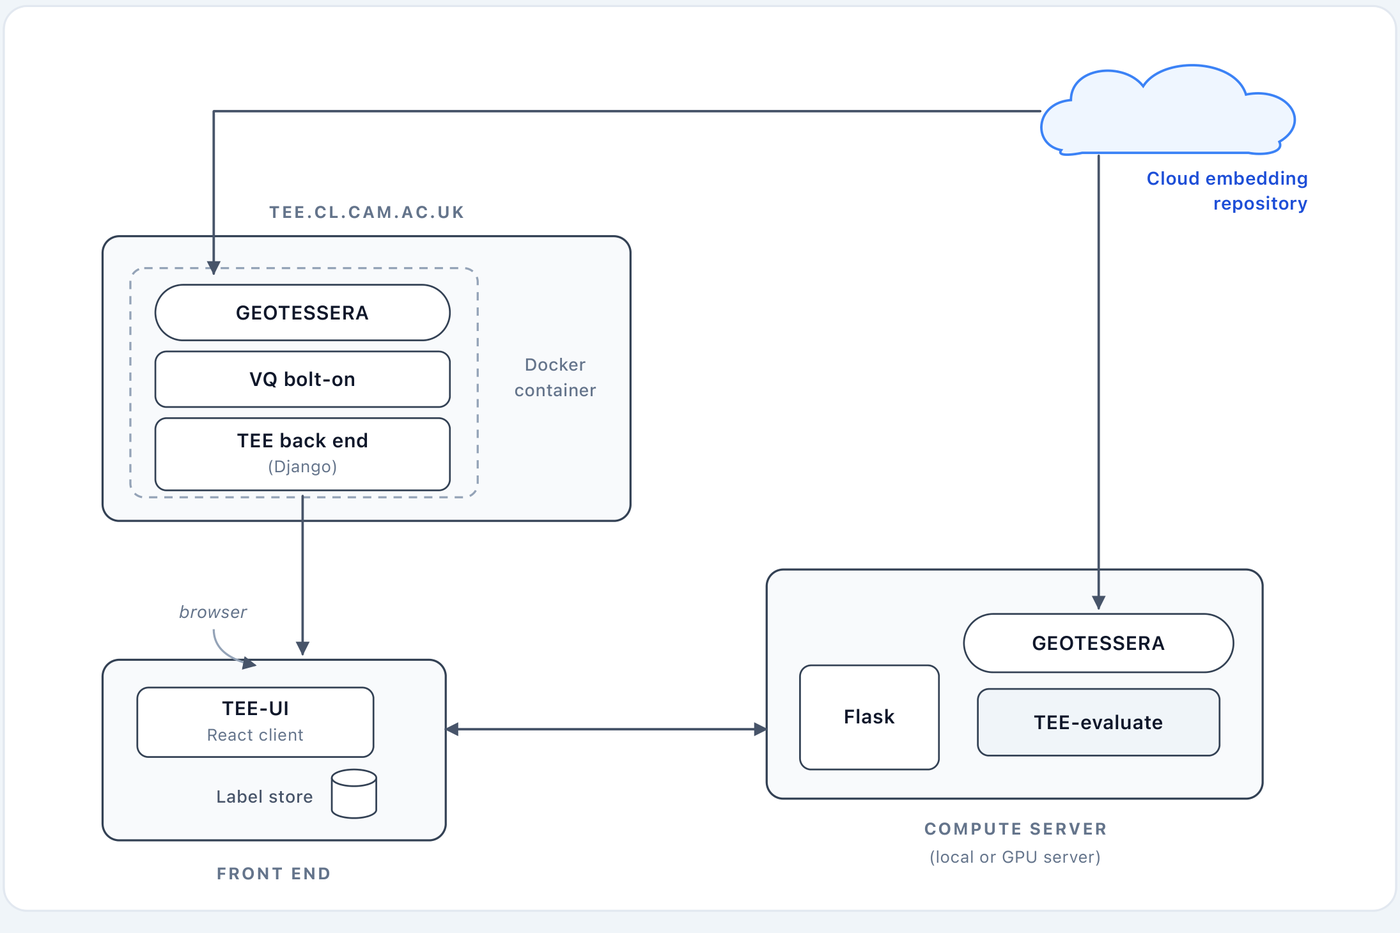
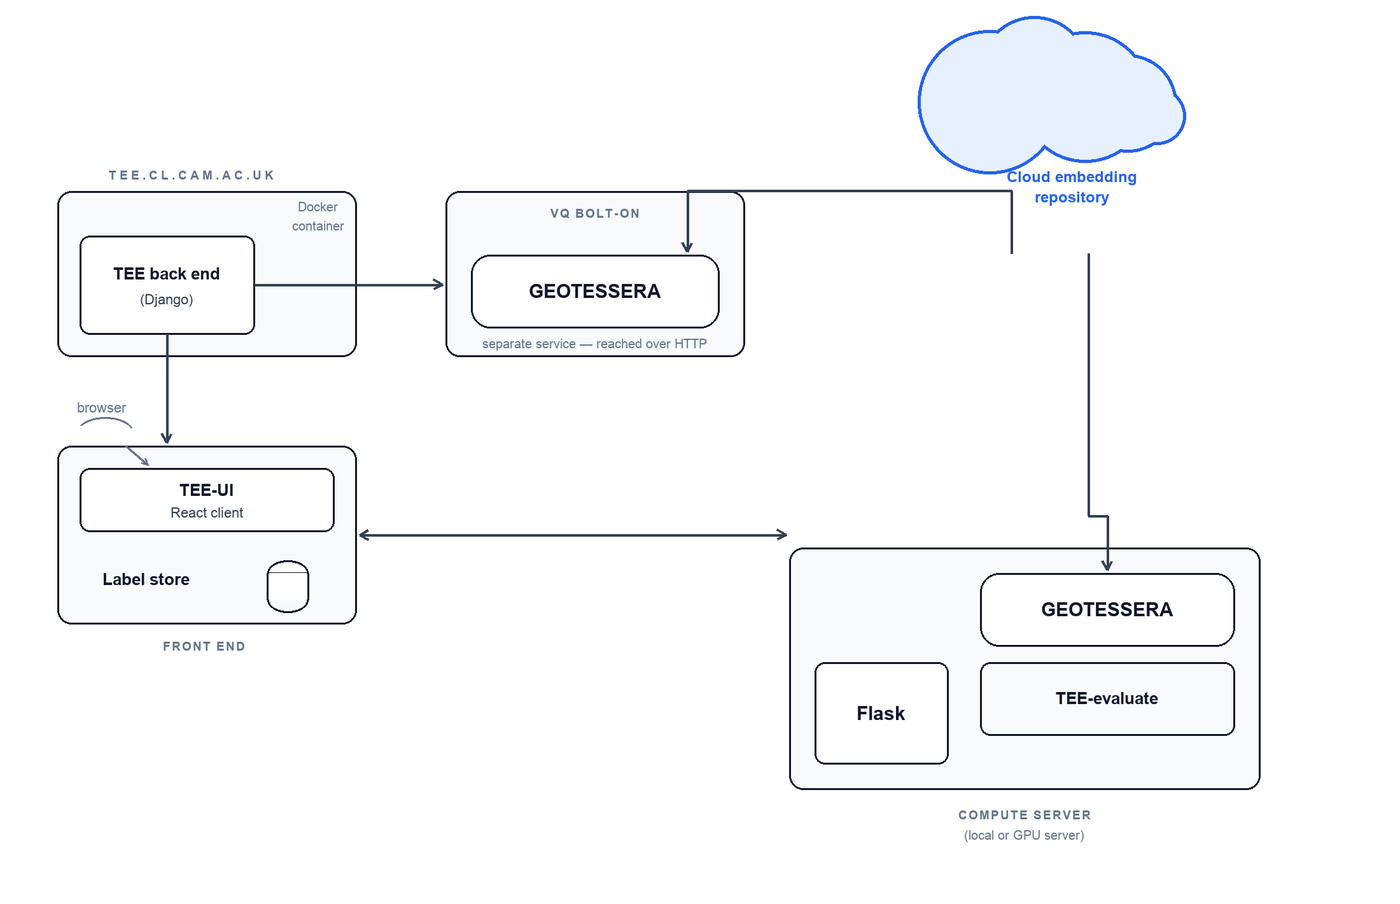
docs: correct architecture diagram — VQ bolt-on is a separate service, not bundled in tee.cl's Docker container
The previous diagram (58c03d6, drawn from the user's PDF figure) showed
GeoTessera-for-VQ nested inside the same Docker container as the Django
back end. In reality process_viewport.py calls the VQ bolt-on as a
separate HTTP service (TESSERA_VQ_URL, defaulting to
tee.cl.cam.ac.uk:8000 but independently deployable/relocatable), not
something bundled with the Django container. Redrew the diagram with
the VQ bolt-on as its own box, called by the Django back end over HTTP
and reading from the cloud embedding repository independently; updated
the alt text to match.

diff --git a/public/user_guide.md b/public/user_guide.md
@@ -345,7 +345,7 @@ The hosted TEE website only serves map tiles and satellite imagery — it does n
 
 ### How It Works
 
-![Architecture — tee.cl.cam.ac.uk (GeoTessera, VQ bolt-on, and the Django back end in a Docker container) serves the front end (TEE-UI and the label store) in your browser; the front end talks to your own compute server (Flask, GeoTessera, and tee-evaluate), which reads embeddings from the cloud embedding repository](images/architecture.png)
+![Architecture — tee.cl.cam.ac.uk runs the Django back end (in a Docker container) plus a separate VQ bolt-on service, both reading from the cloud embedding repository; the back end serves the front end (TEE-UI and the label store) in your browser, and the front end talks to your own compute server (Flask, GeoTessera, and tee-evaluate), which also reads embeddings from the cloud embedding repository](images/architecture.png)
 
 ### Deployment Modes
 
